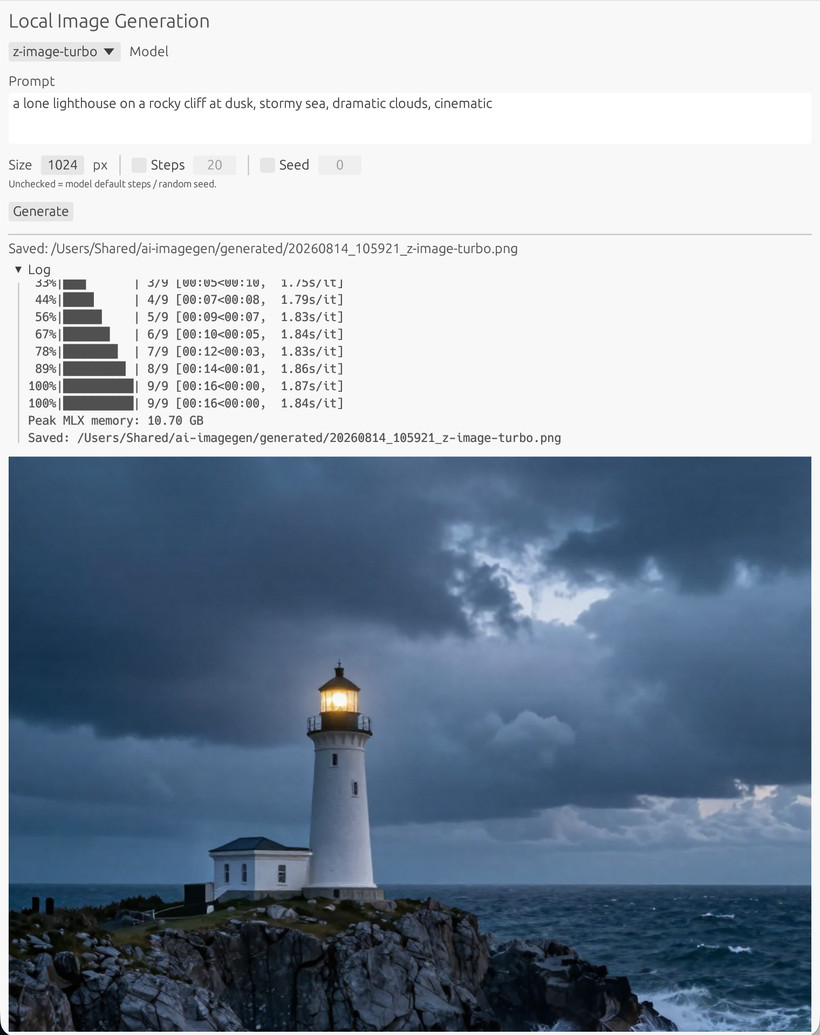
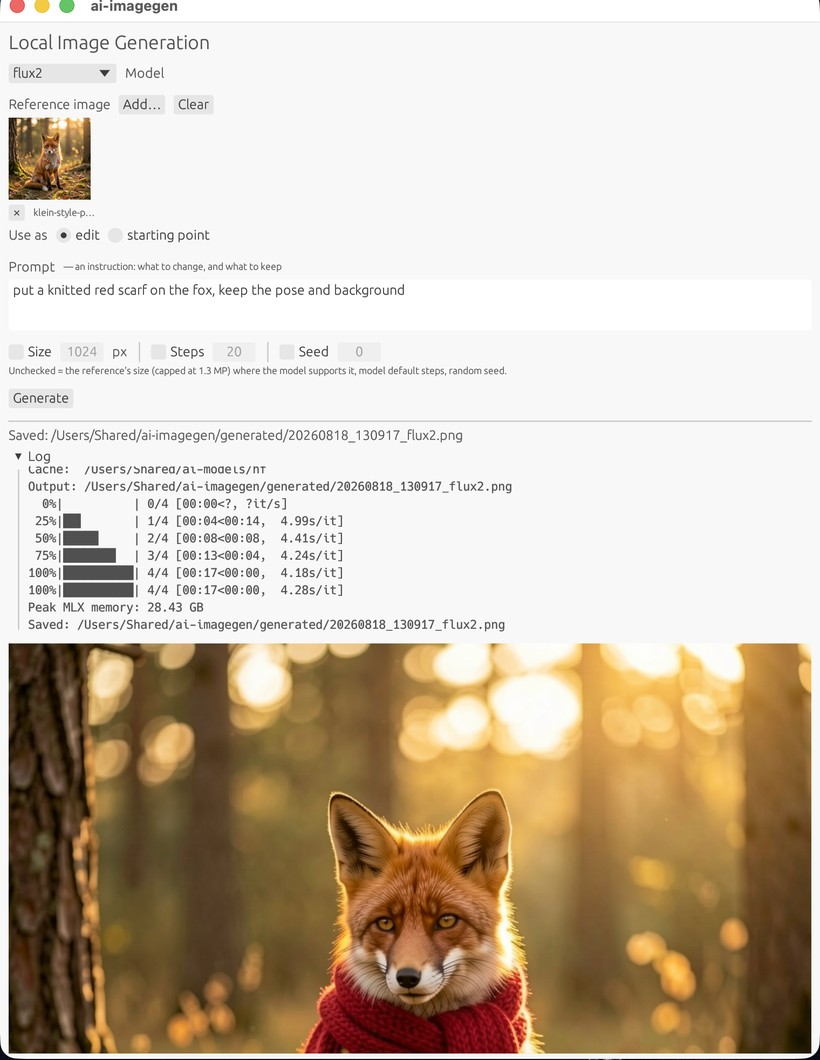
docs(readme): reshoot the app screenshot with a reference image
The old capture predates the reference-image UI, so the section right above it
described controls the picture didn't have. New frame shows the whole path in
one go: flux2 as default, a reference thumbnail in edit mode, the prompt hint,
the streamed log and the finished render.

Shot from /Users/Shared again, same reason as 885c49a — the Saved:/Cache: lines
carry no username. Both symlinks had to be recreated; bash's logical pwd carries
the neutral path through them, so no weights were re-downloaded.

The reference is this repo's own fox render, not a downloaded wallpaper: the
first candidate was third-party artwork with the artist's name watermarked into
it, which has no business in a README on a public mirror.

diff --git a/README.md b/README.md
@@ -83,7 +83,7 @@ on the fox"* — and several references can be combined; every other model takes
 reference as an img2img starting point instead. Details:
 [reference images](docs/usage/generating.md#reference-images).
 
-<img src="docs/assets/gui.jpg" alt="The desktop app: model picker, prompt box, live render log and the finished image" width="420">
+<img src="docs/assets/gui.jpg" alt="The desktop app: model picker, a reference image in edit mode, prompt box, live render log and the finished image" width="420">
 
 ```bash
 cd gui
